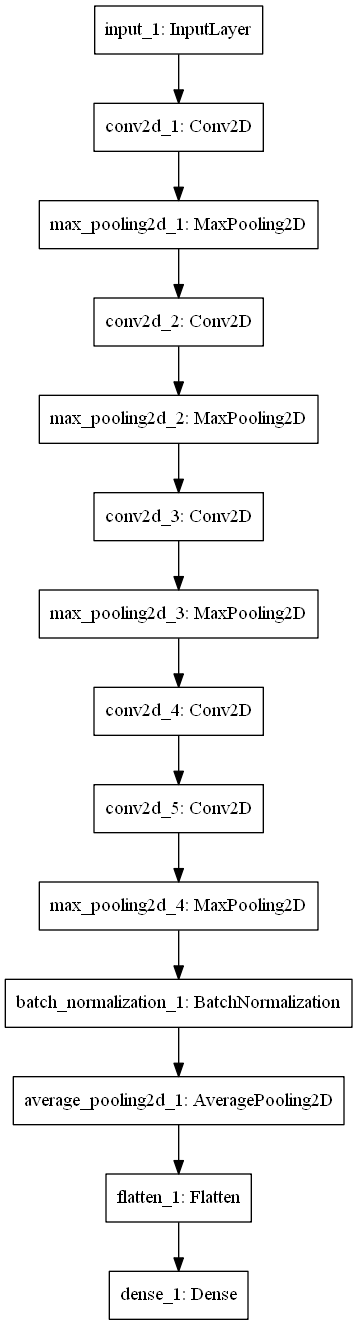
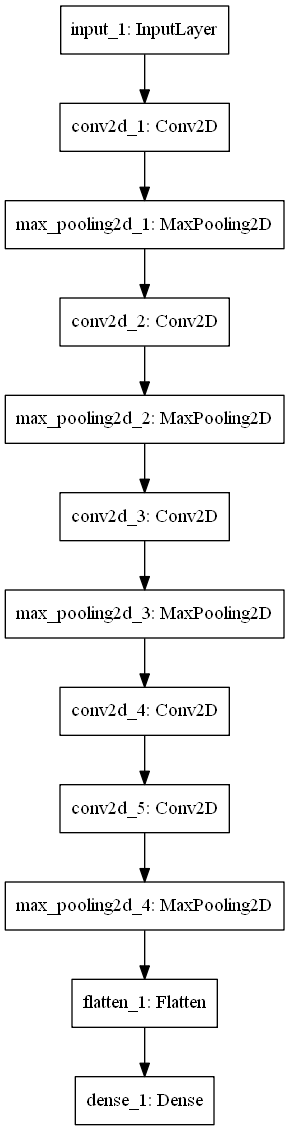
fixed vulnerabilities

diff --git a/calculation-core-service/model/Network.py b/calculation-core-service/model/Network.py
@@ -31,11 +31,11 @@ class CnnNetwork:
             conv_layer)
 
         conv_layer = MaxPooling2D(pool_size, pool_stride_size)(conv_layer)
-        conv_layer = BatchNormalization()(conv_layer)
+        #conv_layer = BatchNormalization()(conv_layer)
 
-        pool = AveragePooling2D(pool_size=(4, 4), strides=(1, 1), padding="same")(conv_layer)
+        #pool = AveragePooling2D(pool_size=(4, 4), strides=(1, 1), padding="same")(conv_layer)
 
-        flatten = Flatten()(pool)
+        flatten = Flatten()(conv_layer)
 
         output_layer = None
 
